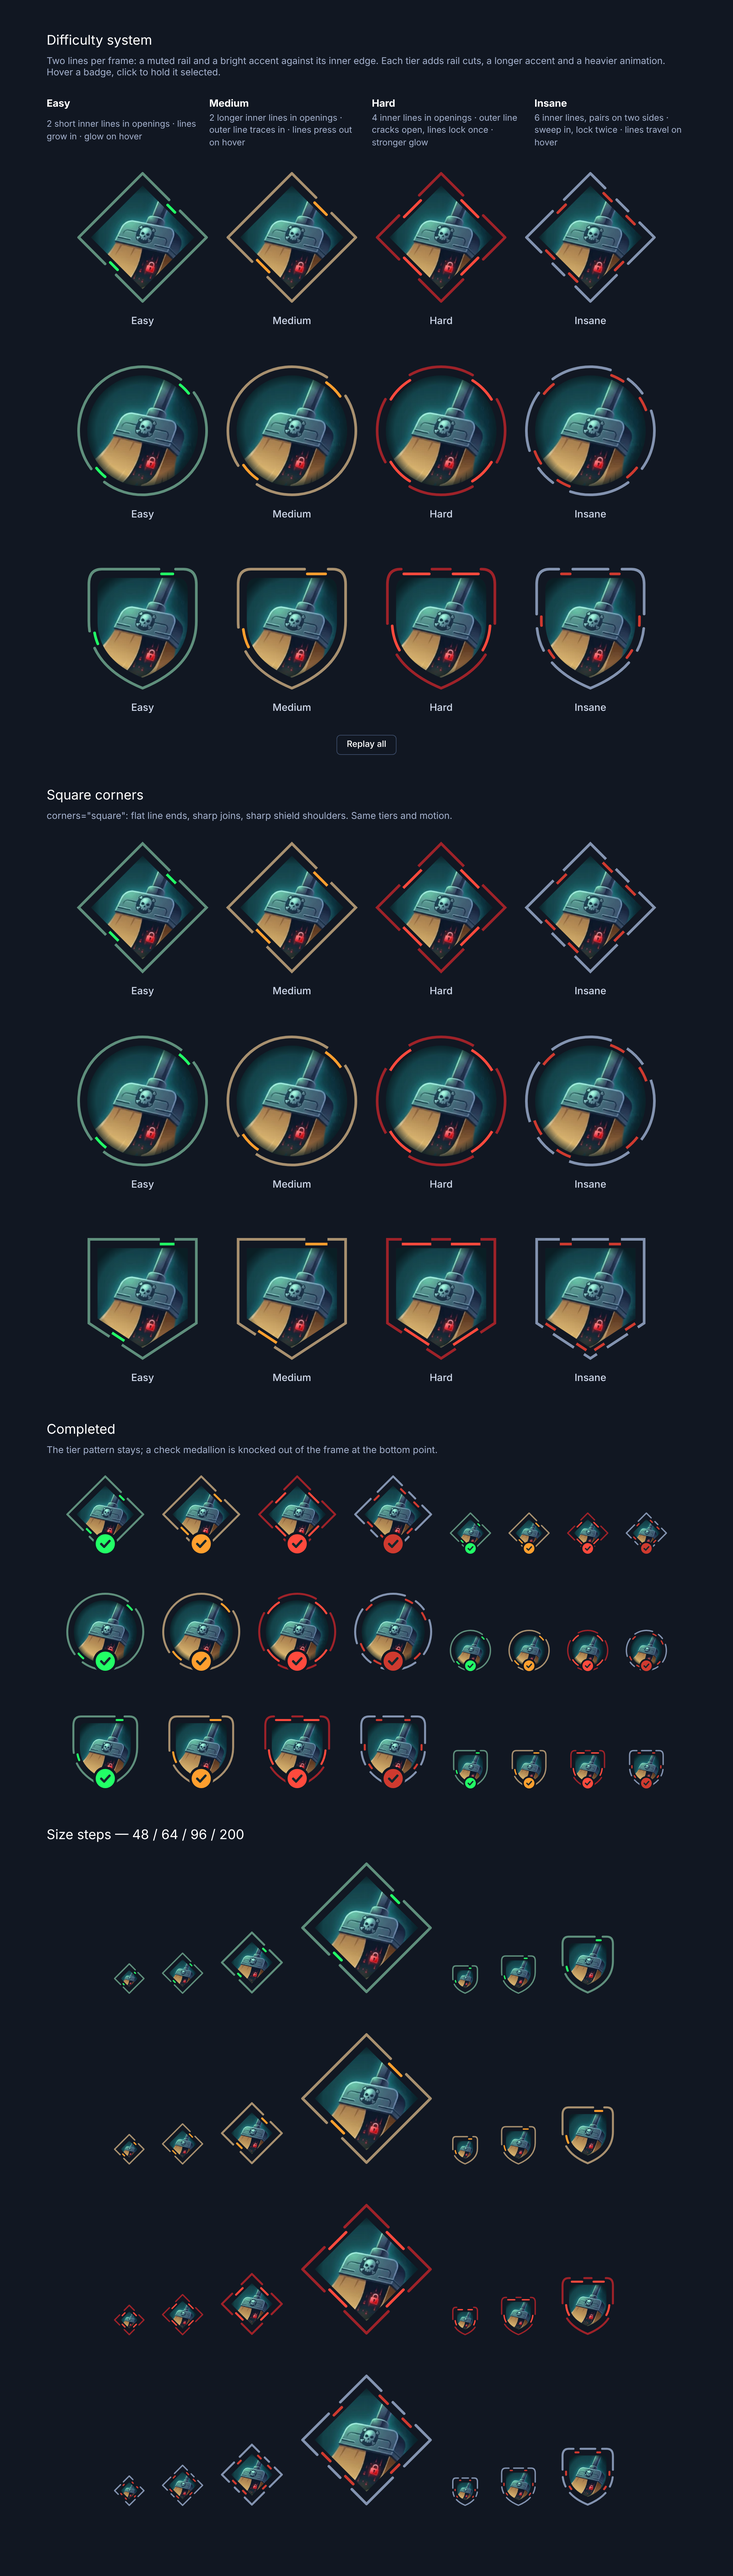
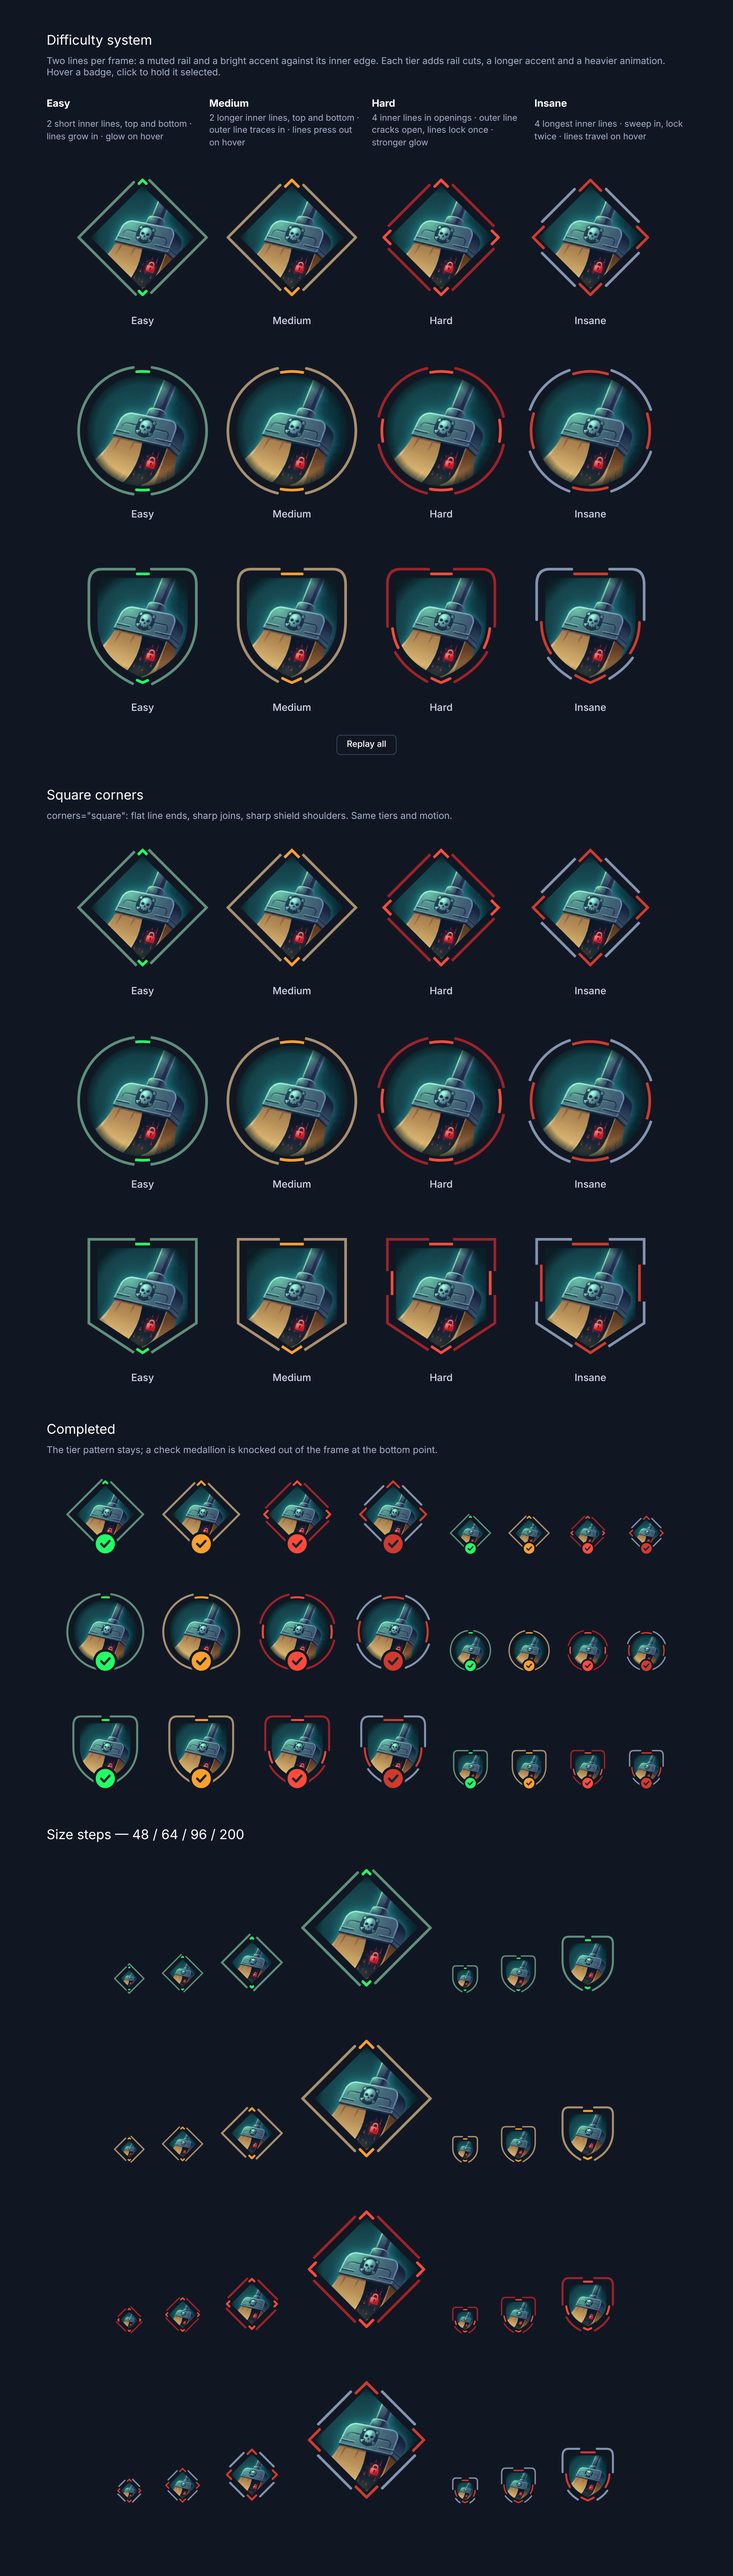
Difficulty frame: four symmetric anchors per shape, shield bottom chevron, insane without pairs
Claude-Session: https://claude.ai/code/session_011nxYfuYnhHf6ffMbWhu3mX

diff --git a/components/difficulty-frame/difficulty-frame.js b/components/difficulty-frame/difficulty-frame.js
@@ -9,10 +9,10 @@
  *           inset from it; they exist only where the rail opens
  *
  *   tier     inner lines / openings                      entrance / hover weight
- *   easy     2 short, on opposite sides                  light
- *   medium   2 longer, on opposite sides                 ↓
- *   hard     4, one per side                             ↓
- *   insane   6, pairs on two opposite sides              heaviest
+ *   easy     2 short, top and bottom                     light
+ *   medium   2 longer, top and bottom                    ↓
+ *   hard     4, one per anchor                           ↓
+ *   insane   4, longest                                  heaviest
  *
  * Attributes
  *   difficulty  easy | medium | hard | insane      (default: easy)
@@ -39,12 +39,12 @@
 (() => {
   // Accent = the bright line; rail = the muted outline in the same family.
   const TIERS = {
-    // open: sides that carry inner lines · pairs: of those, sides with two instead of one ·
+    // open: anchors (0 top, 1 right, 2 bottom, 3 left) that carry an inner line ·
     // length: each inner line, as a share of a side
-    easy: { accent: ['--htb-easy', '#22ff66'], rail: ['--htb-easy-rail', '#5f8f7c'], open: [0, 2], pairs: [], length: 0.16 },
-    medium: { accent: ['--htb-medium', '#ff9f2e'], rail: ['--htb-medium-rail', '#a8906f'], open: [0, 2], pairs: [], length: 0.24 },
-    hard: { accent: ['--htb-hard', '#ff4a3d'], rail: ['--htb-hard-rail', '#9e2229'], open: [0, 1, 2, 3], pairs: [], length: 0.32 },
-    insane: { accent: ['--htb-insane', '#cf3a2f'], rail: ['--htb-insane-rail', '#8393b0'], open: [0, 1, 2, 3], pairs: [0, 2], length: 0.17 },
+    easy: { accent: ['--htb-easy', '#22ff66'], rail: ['--htb-easy-rail', '#5f8f7c'], open: [0, 2], length: 0.16 },
+    medium: { accent: ['--htb-medium', '#ff9f2e'], rail: ['--htb-medium-rail', '#a8906f'], open: [0, 2], length: 0.26 },
+    hard: { accent: ['--htb-hard', '#ff4a3d'], rail: ['--htb-hard-rail', '#9e2229'], open: [0, 1, 2, 3], length: 0.26 },
+    insane: { accent: ['--htb-insane', '#cf3a2f'], rail: ['--htb-insane-rail', '#8393b0'], open: [0, 1, 2, 3], length: 0.4 },
   };
   const LEVELS = Object.keys(TIERS);
   const cssColor = ([name, fallback]) => `var(${name}, ${fallback})`;
@@ -57,51 +57,41 @@
     { min: 160, stroke: 4 },
   ];
   const SPACING = 0.75;        // space between the rail's inner edge and the inner line (× stroke), never under 1.5px
-  const PAIR_SPREAD = 0.2;     // insane: distance of each of a side's two inner lines from its centre (share of a side)
   const ART_CLEAR = 1;         // dark ring between accent and art (× stroke)
 
-  // Each outline is drawn in a -1..1 box and starts on its first side midpoint,
-  // so the path seam hides inside a cut. `sides` are compass bearings (0 = up,
-  // clockwise) of the four side midpoints; the matching spot on any outline is
-  // found by measuring. `ring` converts an inward offset to a radius change, so a
+  // Each outline is drawn in a -1..1 box. `sides` are the compass bearings (0 = up,
+  // clockwise) of its four anchors: top, right, bottom, left. The matching spot on
+  // any outline is found by measuring. `ring` converts an inward offset to a radius change, so a
   // line inset by d px sits d px in on every edge: slanted or slimmed edges need more.
   const SHAPES = {
     diamond: {
       ring: Math.SQRT2,
       path: (p) => `M${p(0.5, -0.5)} L${p(1, 0)} L${p(0, 1)} L${p(-1, 0)} L${p(0, -1)} Z`,
-      // Anchored on the four points (top, right, bottom, left), so each inner line is a
-      // chevron wrapping round a point. Insane's pairs sit either side of the left and
-      // right points, one line on each edge, leaving the tip itself intact.
+      // Anchored on its four points, so each inner line is a chevron wrapping round a point.
       sides: [0, 90, 180, 270],
-      pairs: { insane: [1, 3] },
     },
     circle: {
       ring: 1,
       path: (p, r) => `M${p(Math.SQRT1_2, -Math.SQRT1_2)} A${r} ${r} 0 1 1 ${p(-Math.SQRT1_2, Math.SQRT1_2)} `
         + `A${r} ${r} 0 1 1 ${p(Math.SQRT1_2, -Math.SQRT1_2)} Z`,
-      sides: [45, 135, 225, 315],
+      sides: [0, 90, 180, 270],
     },
     shield: {
       // Heater shield: flat top, rounded shoulders, even taper to the point.
       // Drawn slimmer than its box (x × 0.84) so it reads as a shield, not a badge.
-      // Its "sides" sit mid-way along each half of the top and low on each flank, mirrored.
+      // Anchors: top centre, low on each flank, and the bottom point (a chevron).
       ring: 1 / 0.84,
-      // Insane inner lines are shortened here: the top edge is short and full-length
-      // pairs nearly meet across it.
-      length: { insane: 0.13 },
-      // The top edge is short, so insane's pairs go on the flanks (sides 1 and 2) and
-      // the top carries one line per half: a single pair across it.
-      pairs: { insane: [1, 2] },
       // Square version: sharp shoulders and a faceted bottom. The facets meet the sides
       // at y 0.45, an angle that puts them as far from the centre as the sides, so
-      // the inner line keeps the same spacing all round. Its lower accents sit mid-facet.
+      // the inner line keeps the same spacing all round. Its flank anchors sit mid-way up the
+      // straight sides.
       square: (box) => { const p = (x, y) => box(x * 0.84, y); return `M${p(0.5, -0.86)} L${p(1, -0.86)} L${p(1, 0.45)} `
         + `L${p(0, 1)} L${p(-1, 0.45)} L${p(-1, -0.86)} Z`; },
-      squareSides: [26, 150, 210, 334],
+      squareSides: [0, 77, 180, 283],
       path: (box) => { const p = (x, y) => box(x * 0.84, y); return `M${p(0.5, -0.86)} L${p(0.76, -0.86)} Q${p(1, -0.86)} ${p(1, -0.62)} L${p(1, -0.05)} `
         + `C${p(1, 0.48)} ${p(0.58, 0.8)} ${p(0, 1)} C${p(-0.58, 0.8)} ${p(-1, 0.48)} ${p(-1, -0.05)} `
         + `L${p(-1, -0.62)} Q${p(-1, -0.86)} ${p(-0.76, -0.86)} Z`; },
-      sides: [26, 107, 253, 334],
+      sides: [0, 107, 180, 253],
     },
   };
 
@@ -353,11 +343,9 @@
       const bearings = (square && shape.squareSides) || shape.sides;
       const aSides = sideFractions(`${form}|accent`, accentPath, c, bearings).map((f) => f * aTotal);
 
-      // Inner lines: one centred on a side, or a pair either side of its centre.
-      const aLen = (aTotal / 4) * (shape.length?.[level] ?? tier.length);
-      const spread = (aTotal / 4) * PAIR_SPREAD;
-      const placed = aSides.flatMap((a, side) => ((shape.pairs?.[level] ?? tier.pairs).includes(side) ? [a - spread, a + spread] : [a])
-        .map((p) => ({ at: (p + aTotal) % aTotal, side })));
+      // Inner lines: one centred on each open anchor.
+      const aLen = (aTotal / 4) * tier.length;
+      const placed = aSides.map((a, side) => ({ at: a, side }));
       const order = (list) => [...list].sort((x, y) => x.at - y.at);
       // Inner lines exist only where the rail opens: on the tier's open sides the rail
       // is cut away behind each one, so it sits in the opening, inset by `space`.

diff --git a/components/difficulty-frame/index.html b/components/difficulty-frame/index.html
@@ -28,10 +28,10 @@
   <h2>Difficulty system</h2>
   <p class="note">Two lines per frame: a muted rail and a bright accent against its inner edge. Each tier adds rail cuts, a longer accent and a heavier animation. Hover a badge, click to hold it selected.</p>
   <div class="legend">
-    <div><strong>Easy</strong><span>2 short inner lines in openings · lines grow in · glow on hover</span></div>
-    <div><strong>Medium</strong><span>2 longer inner lines in openings · outer line traces in · lines press out on hover</span></div>
+    <div><strong>Easy</strong><span>2 short inner lines, top and bottom · lines grow in · glow on hover</span></div>
+    <div><strong>Medium</strong><span>2 longer inner lines, top and bottom · outer line traces in · lines press out on hover</span></div>
     <div><strong>Hard</strong><span>4 inner lines in openings · outer line cracks open, lines lock once · stronger glow</span></div>
-    <div><strong>Insane</strong><span>6 inner lines, pairs on two sides · sweep in, lock twice · lines travel on hover</span></div>
+    <div><strong>Insane</strong><span>4 longest inner lines · sweep in, lock twice · lines travel on hover</span></div>
   </div>
   <div id="large"></div>
   <p class="actions"><button type="button" data-replay-all>Replay all</button></p>
